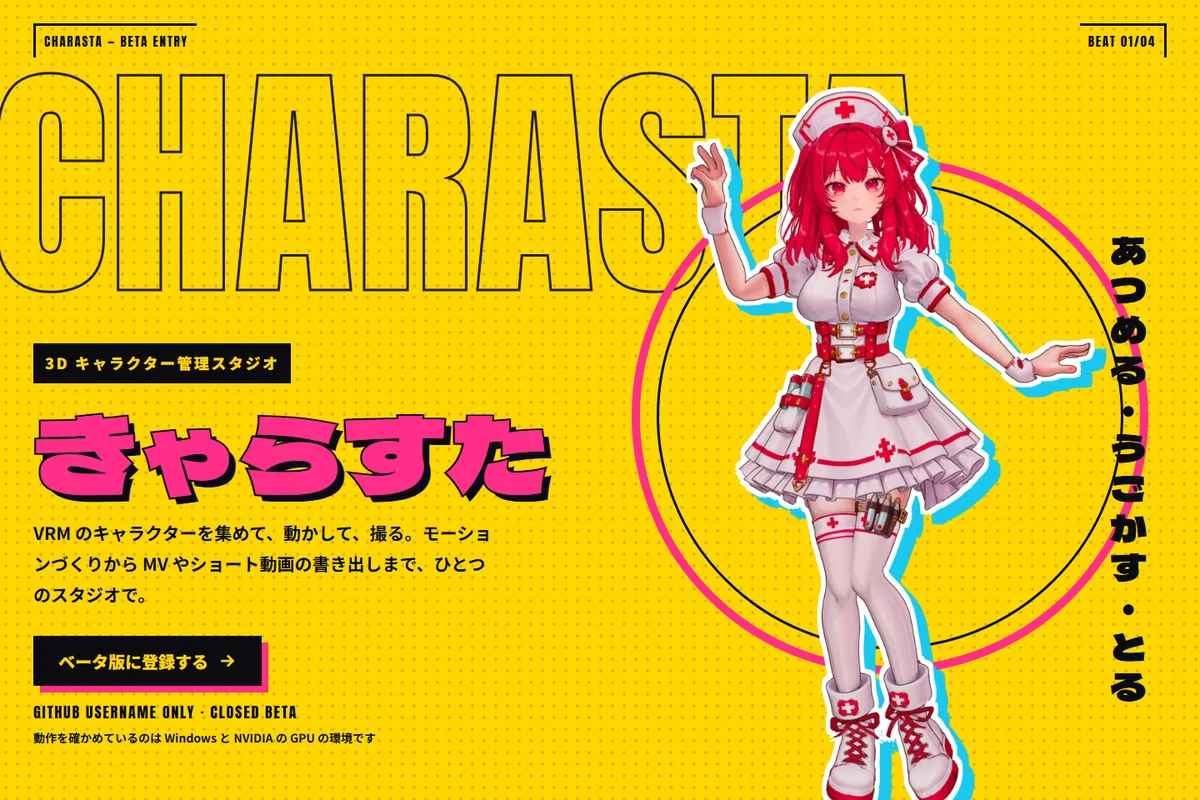
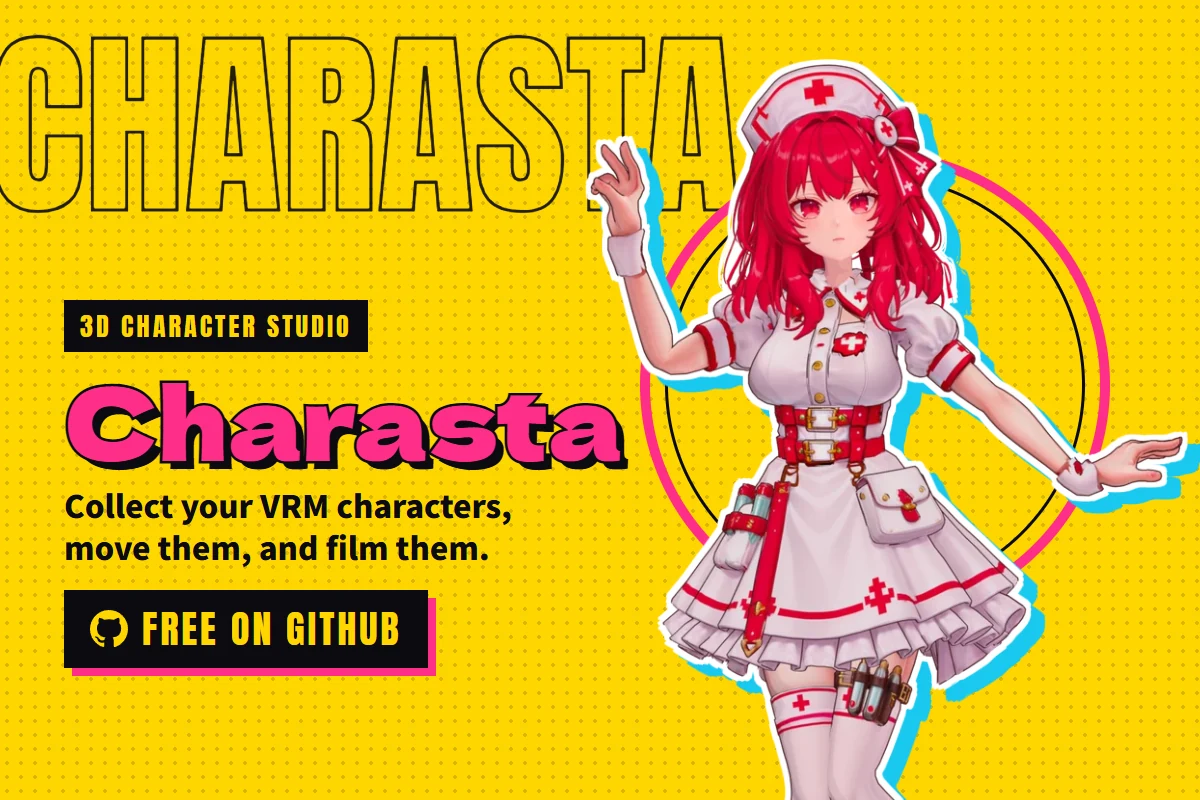
README のバナーを公開に合わせて作り直す(英語版と日本語版を分ける)
古いバナーにあった「ベータ版に登録する」と CLOSED BETA を外し、「GitHub で無料公開中」にした。README.md は英語、README.ja.md は日本語のバナーを使う。

Claude-Session: https://claude.ai/code/session_01CC1h7jGEudjFU6soPeJ9LX

diff --git a/README.ja.md b/README.ja.md
@@ -2,7 +2,7 @@
 
 [English](README.md) | 日本語
 
-![きゃらすた](docs/images/banner.webp)
+![きゃらすた](docs/images/banner_ja.webp)
 
 ![version](https://img.shields.io/badge/version-0.1.0--beta-ff2e88)
 ![platform](https://img.shields.io/badge/platform-Windows%20%7C%20macOS%20(beta)-19c8f0)
